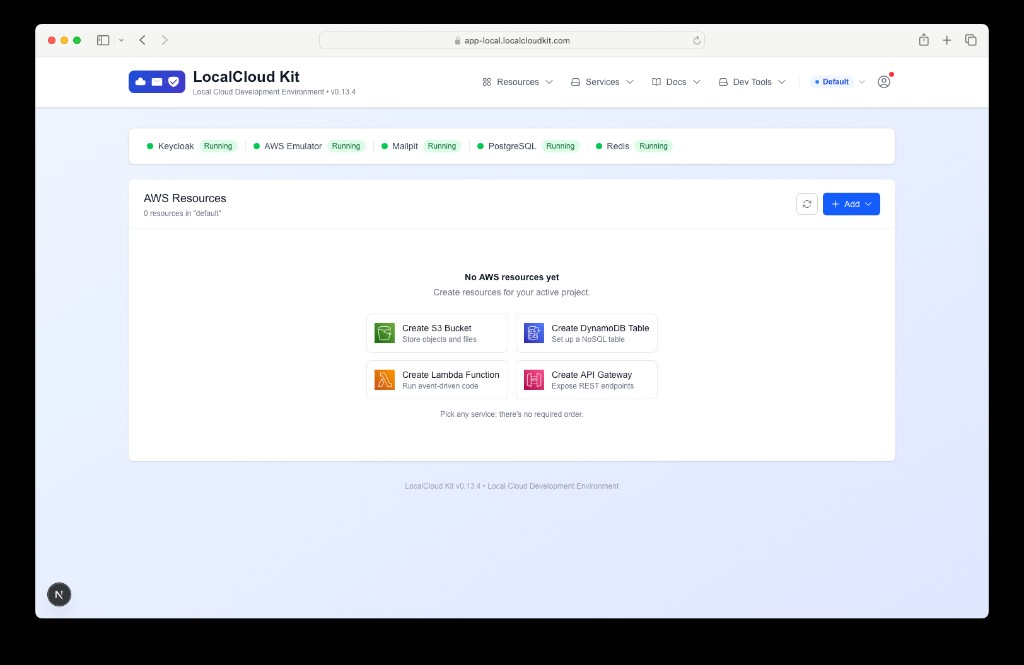
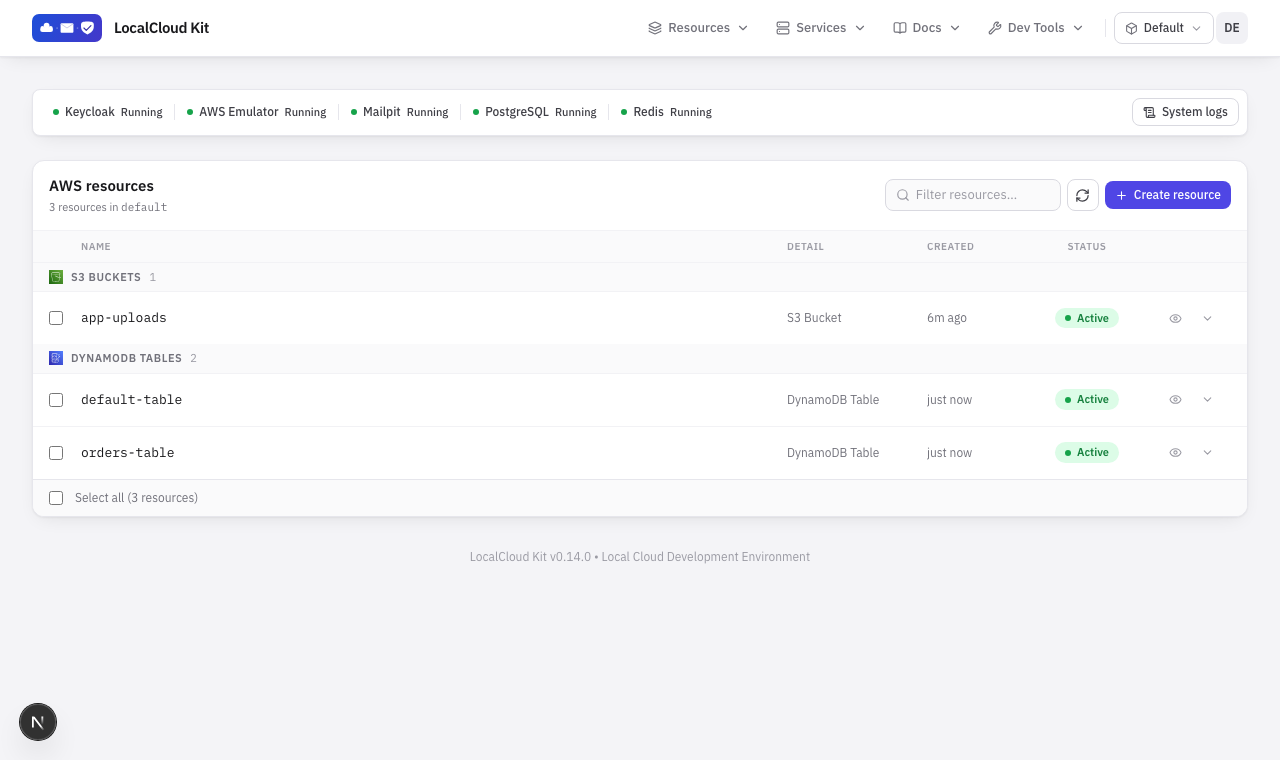
docs: refresh README screenshots for current UI and dark mode
Existing screenshots predated the AppNavBar/dark-mode redesign and still
showed the old tagline and light-only nav. Recaptured against the running
app and swapped the multi-resource shot for a dark-mode view.

diff --git a/README.md b/README.md
@@ -122,7 +122,7 @@ The dashboard shows your local cloud environment at a glance:
 - **Services Status Bar** — health indicators for Keycloak, AWS Emulator, Mailpit, PostgreSQL, PostHog, and Redis. Click any service to open its management panel or docs.
 - **AWS Resources** — categorized view (Storage, Database, Security & Identity) with add/destroy actions and inline inspection.
 
-![Dashboard - Empty Resources](docs/screenshots/01-dashboard-empty-resources.png)
+![Main Dashboard](docs/screenshots/01-dashboard-empty-resources.png)
 
 ---
 
@@ -134,25 +134,25 @@ Configure tables with partition key, sort key, billing mode, and optional GSIs.
 
 ![Create DynamoDB Table](docs/screenshots/02-dashboard-create-dynamodb-table.png)
 
-#### Table Appears in Dashboard
+#### Resources Grouped in Dashboard
 
-After creation, the table appears in the Database section with status and action controls.
+Created resources appear grouped by category (Storage, Database, ...) with status and action controls.
 
 ![DynamoDB Resource in Dashboard](docs/screenshots/03-dashboard-dynamodb-resource.png)
 
 #### Add Resource Options
 
-Use the **+ Add** dropdown to create AWS resources by category.
+Use the **+ Create resource** dropdown to create AWS resources by category.
 
 ![Add Resource Options](docs/screenshots/04-dashboard-add-resource-options.png)
 
 ---
 
-### Multiple Resources
+### Dark Mode
 
-Storage and Database resources are grouped and displayed together in the main list.
+The dashboard supports light, dark, and auto (system) themes, switchable from the profile menu.
 
-![Multiple Resources in Dashboard](docs/screenshots/05-dashboard-multiple-resources.png)
+![Dashboard in Dark Mode](docs/screenshots/05-dashboard-multiple-resources.png)
 
 ## 🏗 Project Structure
 
